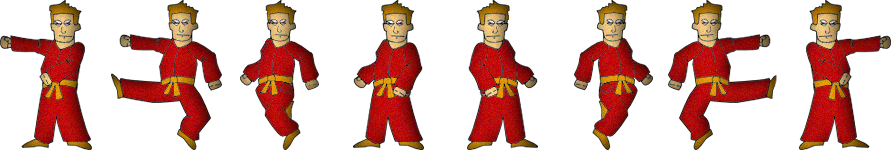
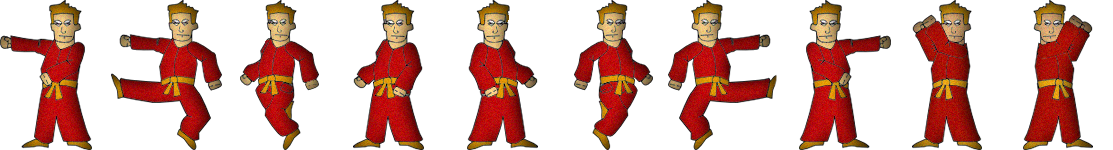
health bar, health bar fix block move damage adjustment

diff --git a/js/fight.js b/js/fight.js
@@ -92,8 +92,11 @@ var eurecaClientSetup = function() {
 
     eurecaClient.exports.updateHealth = function(id, health)
     {
-        player.health = health;
-        healthbar1.scale.setTo(player.health/100,1);
+        if (fightersList[id]) {
+            fightersList[id].health = health;
+            if(id==myId)
+                healthBar1.scale.setTo(fightersList[id].health/100,1);
+        }
     }
 }
 
@@ -104,7 +107,8 @@ Fighter = function (index, game, player, frame) {
 		right:false,
 		up:false,
 		a:false,
-        s:false
+        s:false,
+        d:false
 	}
 
 	this.input = {
@@ -112,7 +116,8 @@ Fighter = function (index, game, player, frame) {
 		right:false,
 		up:false,
         a:false,
-        s:false
+        s:false,
+        d:false
 	}
 
     var x = 0;
@@ -149,6 +154,8 @@ Fighter = function (index, game, player, frame) {
     this.fighter.animations.add('kick-right', [7], 100, true);
     this.fighter.animations.add('jump-kick-left', [1], 50, true);
     this.fighter.animations.add('jump-kick-right', [6], 50, true);
+    this.fighter.animations.add('block-left', [8], 50, true);
+    this.fighter.animations.add('block-right', [9], 50, true);
 };
 
 Fighter.prototype.update = function() {
@@ -157,7 +164,8 @@ Fighter.prototype.update = function() {
 		this.cursor.right != this.input.right ||
 		this.cursor.up != this.input.up ||
         this.cursor.a != this.input.a ||
-        this.cursor.s != this.input.s
+        this.cursor.s != this.input.s ||
+        this.cursor.d != this.input.d
 	);
 
 	if (inputChanged)
@@ -199,9 +207,16 @@ Fighter.prototype.update = function() {
     }
     else
     {
-        //  Stand still
-        this.fighter.animations.stop();
-        this.fighter.frame = this.fighter.defaultStance;
+        if (this.cursor.d && this.fighter.body.touching.down && unlocked)
+        {
+            // block
+            if(this.fighter.defaultStance==4)this.fighter.animations.play('block-right');
+            if(this.fighter.defaultStance==3)this.fighter.animations.play('block-left');
+        } else {
+            //  Stand still
+            this.fighter.animations.stop();
+            this.fighter.frame = this.fighter.defaultStance;
+        }
     }
 
     //  diffrent animation while falling
@@ -327,13 +342,13 @@ function create () {
     if(player_id==1) {
         player = new Fighter(myId, game, fighter, 4);
         //health bars
-        healthbar1 = platforms.create(10, 10, 'health');
-        healthbar2 = platforms.create(635, 10, 'health');
+        healthBar1 = platforms.create(10, 10, 'health');
+        healthBar2 = platforms.create(635, 10, 'health');
     } else {
         player = new Fighter(myId, game, fighter, 3);
         //health bars
-        healthbar1 = platforms.create(635, 10, 'health');
-        healthbar2 = platforms.create(10, 10, 'health');
+        healthBar1 = platforms.create(635, 10, 'health');
+        healthBar2 = platforms.create(10, 10, 'health');
     }
 
 	fightersList[myId] = player;
@@ -347,7 +362,8 @@ function create () {
     cursors = game.input.keyboard.createCursorKeys();
     kicks = {
         a: game.input.keyboard.addKey(Phaser.Keyboard.A),
-        s: game.input.keyboard.addKey(Phaser.Keyboard.S)
+        s: game.input.keyboard.addKey(Phaser.Keyboard.S),
+        d: game.input.keyboard.addKey(Phaser.Keyboard.D)
     };
 }
 
@@ -362,6 +378,7 @@ function update () {
 	player.input.up = cursors.up.isDown;
     player.input.a = kicks.a.isDown;
     player.input.s = kicks.s.isDown;
+    player.input.d = kicks.d.isDown;
 
     game.physics.arcade.collide(fighter, platforms);
     //game.physics.arcade.collide(dummy.fighter, platforms);
@@ -393,24 +410,31 @@ function update () {
         if (game.physics.arcade.overlap(fighter, targetFighter) && i!=myId) {
             game.physics.arcade.collide(fighter, targetFighter);
 
-            if (player.input.a && fighter.body.touching.down && (targetFighter.body.velocity.x != 0 || targetFighter.body.velocity.y != 0)) {
-                fightersList[i].health -= 5;
+            if (player.input.a && fighter.body.touching.down && !fightersList[i].cursor.d) {
+                fightersList[i].health -= 3;
                 console.log(fightersList[i].health);
             }
             if (player.input.s && !fighter.body.touching.down) {
-                fightersList[i].health -= 2.5;
+                if(fightersList[i].cursor.d)
+                    fightersList[i].health -= 1;
+                else
+                    fightersList[i].health -= 2;
                 console.log(fightersList[i].health);
             }
 
             //resize healthbar
-            healthbar2.scale.setTo(fightersList[i].health/100,1);
+            //healthBar2.scale.setTo(fightersList[i].health/100,1);
 
             if(fightersList[i].health<=0)
                 fightersList[i].alive = 0;
         }
 
         //send health data
-        eurecaServer.handleHealth(fightersList[i].health);
+
+        if(i!=myId) {//console.log(fightersList[i].health);
+            healthBar2.scale.setTo(fightersList[i].health/100,1);
+            eurecaServer.handleHealth(i, fightersList[i].health);
+        }
 
         if (fightersList[i].alive)
         {

diff --git a/server.js b/server.js
@@ -28,7 +28,7 @@ eurecaServer.onConnect(function (conn) {
     var remote = eurecaServer.getClient(conn.id);    
 	
 	//register the client
-	clients[conn.id] = {id:conn.id, remote:remote}
+	clients[conn.id] = {id:conn.id, remote:remote, health:100}
 
     var player_id = 1;
 
@@ -88,11 +88,15 @@ eurecaServer.exports.handleKeys = function (keys) {
 }
 
 //be exposed to client side
-eurecaServer.exports.handleHealth = function (health) {
+eurecaServer.exports.handleHealth = function (id, health) {
+    var conn = this.connection;
+    //var remote = clients[conn.id].remote;
+    clients[id].health = health;
+
     for (var c in clients)
     {
         var remote = clients[c].remote;
-        remote.updateHealth(c, health);
+        remote.updateHealth(c, clients[c].health);
     }
 }
 

diff --git a/index.html b/index.html
@@ -1,7 +1,7 @@
 <!DOCTYPE HTML>
 <html>
 <head>
-    <title>FightClub</title>
+    <title>ReverseFighters</title>
     <meta charset="utf-8">
     <meta name="viewport" content="initial-scale=1 maximum-scale=1 user-scalable=0 minimal-ui" />
     <link rel="stylesheet" href="css/style.css" type="text/css" charset="utf-8" />
